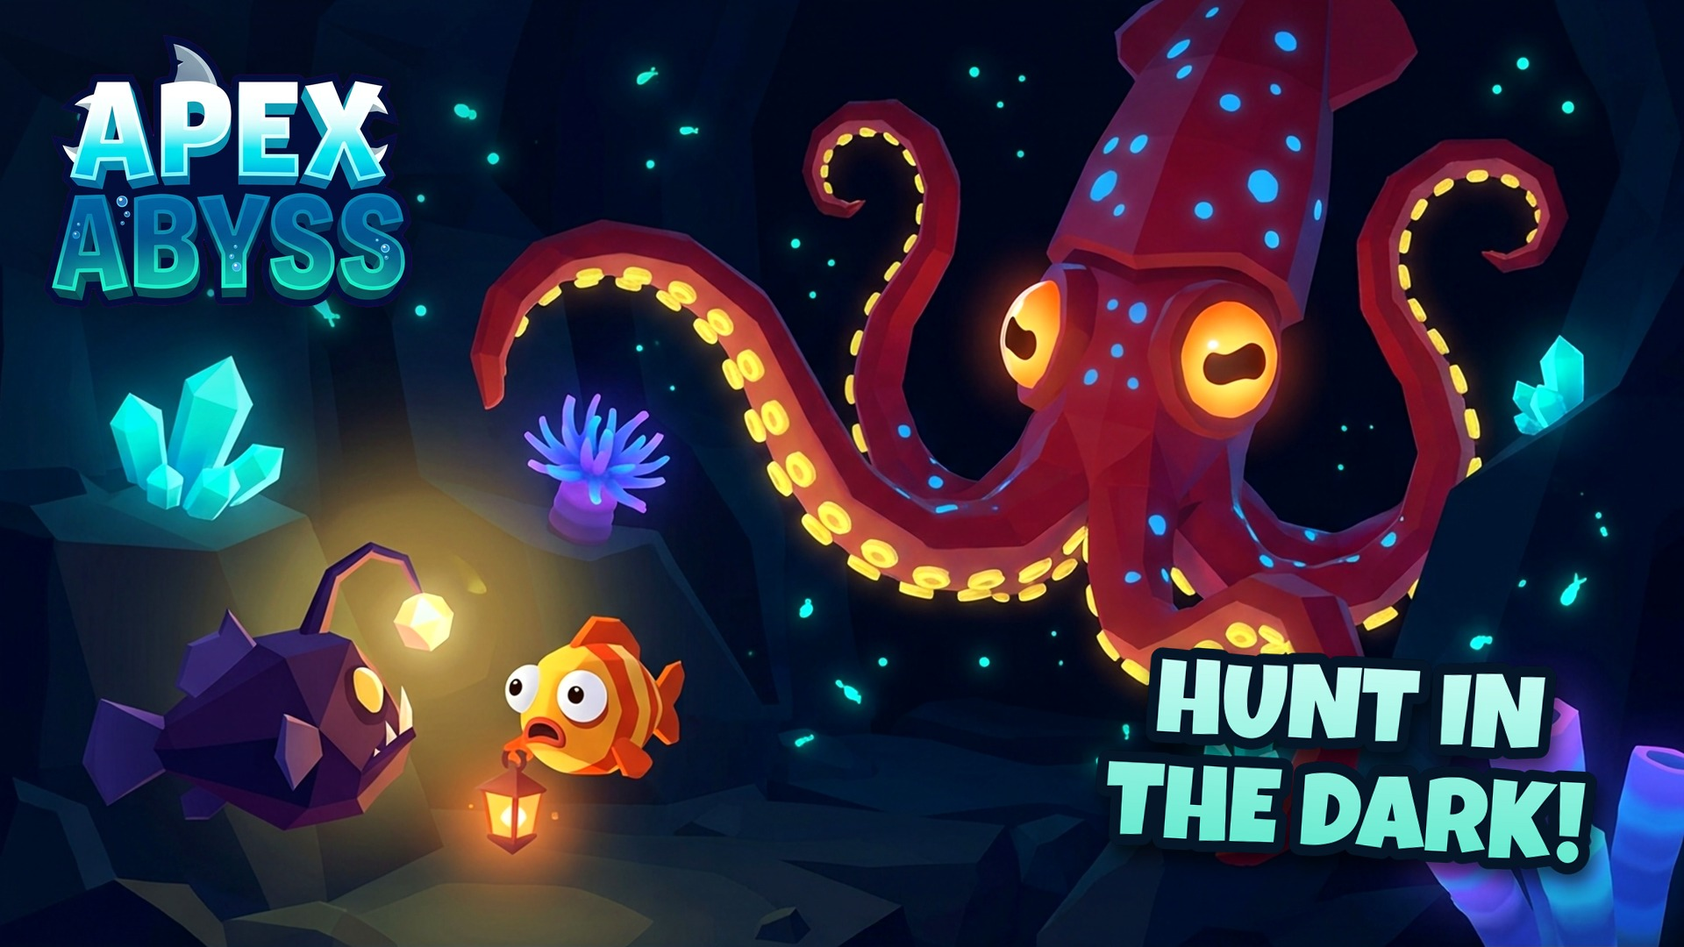
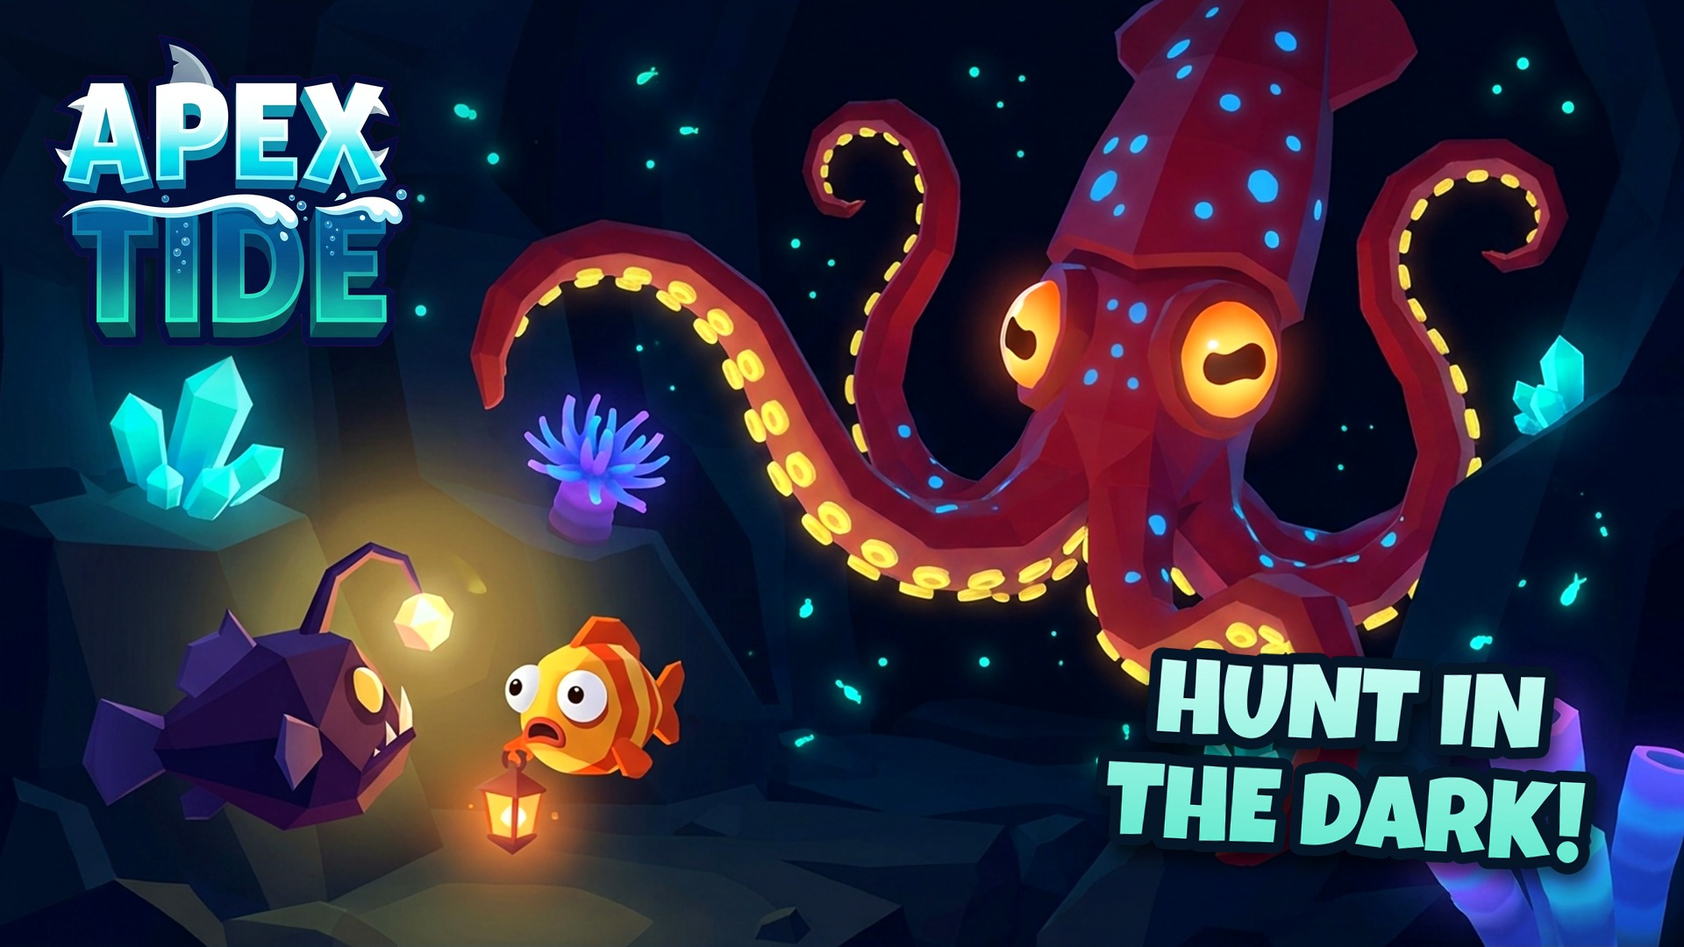
Rename the game to Apex Tide
Connor picked Apex Tide over Apex Abyss: the game is no longer about the
abyss, "Abyss" alone is crowded on Roblox, and the name ties to the Tide
Clock and the Tide Pass. Nothing on Roblox, the web or the trademark
records uses it.

- The logo: an image edit of the old one keeps its APEX line and draws
  TIDE in its style under a foam crest (B, a curling wave, is the
  alternate). compose.py keys it, drops the model's faint noise band and
  rebuilds every thumbnail with it.
- The start screen reads APEX TIDE, and shows the logo instead once
  Config/Textures `logo` holds its id, sized to clear the letterbox on PC
  and phones.
- Start lines, the Rojo project name, tool headers, README, GDD, the store
  page (with a tides line in the description) and CLAUDE.md. The repo, the
  place file and the DataStores keep their names.
- The round-3 brief gets the Roblox side: logo upload, experience name and
  description, and thumbnails (thumb_6 held back; the colour screen flags
  its parchment map).

Claude-Session: https://claude.ai/code/session_01VGK3PReyaj8gMXaiCbKPC3

Changed region(s): [[0.0312, 0.0306, 0.25, 0.3667]]

diff --git a/tools/marketing/compose.py b/tools/marketing/compose.py
@@ -1,4 +1,4 @@
-"""Builds the Roblox store art (icon, logo, thumbnails) for Apex Abyss.
+"""Builds the Roblox store art (icon, logo, thumbnails) for Apex Tide.
 
     python3 tools/marketing/compose.py refs     # the style-reference sheets for the image jobs
     SR_MODEL=<EDSR_x2.pb> python3 tools/marketing/compose.py sr   # upscale the key art (slow, cached)
@@ -22,7 +22,8 @@ Pipeline (owner, 2026-10-09: "generate our page photo and some thumbnails"):
    the files to upload in Creator Hub:
 
        icon_512.png, icon_512_alt.png   the experience icon (512x512) and the runner-up
-       logo.png                         APEX ABYSS on a transparent background
+       logo.png, logo_alt.png           APEX TIDE on a transparent background (A, and B the
+                                        runner-up with a curling wave)
        thumb_N_<name>.jpg               thumbnails (1920x1080)
        thumb_N_<name>.jpg from marketing/raw/shot_*.png, in-game captures (committed)
 
@@ -142,8 +143,26 @@ def key_magenta(im: Image.Image) -> Image.Image:
     # Despill: the logo is white, aqua, blue and navy, so red never rises above green
     # or blue there; at the edges the screen's pink did
     r = ImageChops.darker(r, ImageChops.lighter(g, b))
+    # The image model leaves faint noise in the screen (a blocky band along the top of
+    # the LogoTide images): drop near-clear pixels, then keep the longest run of rows
+    # that hold the logo
+    alpha = alpha.point(lambda v: 0 if v < 40 else v)
     out = Image.merge("RGBA", (r, g, b, alpha))
+    rows = [y for y, n in enumerate(_row_counts(alpha)) if n > 3]
+    runs: list[list[int]] = []
+    for y in rows:
+        if runs and y == runs[-1][1] + 1:
+            runs[-1][1] = y
+        else:
+            runs.append([y, y])
+    top, bottom = max(runs, key=lambda run: run[1] - run[0])
+    out = out.crop((0, top, out.width, bottom + 1))
     return out.crop(out.getbbox())
+
+
+def _row_counts(alpha: Image.Image) -> list[int]:
+    data = alpha.tobytes()
+    return [sum(1 for v in data[y * alpha.width : (y + 1) * alpha.width] if v) for y in range(alpha.height)]
 
 
 def vibrance(im: Image.Image, amount: float = 1.1, contrast: float = 1.04) -> Image.Image:
@@ -256,8 +275,11 @@ def save(c: Image.Image, name: str):
 
 def main():
     OUT.mkdir(exist_ok=True)
-    logo = key_magenta(src("Logo"))
+    # APEX TIDE (2026-10-20, renamed from Apex Abyss): the old logo's APEX line kept by
+    # an image edit, TIDE under a foam crest (A); B curls a wave round TIDE
+    logo = key_magenta(src("LogoTideA"))
     logo.save(OUT / "logo.png")
+    key_magenta(src("LogoTideB")).save(OUT / "logo_alt.png")
 
     # The icon: eat or be eaten, readable at the size of a thumbnail tile. B (the
     # Nibbler chomping at you) is the runner-up

diff --git a/tools/preview/start_render.py b/tools/preview/start_render.py
@@ -320,15 +320,28 @@ def overlay(img, shot, k, seconds):
     bar = int(H * 0.085)
     draw.rectangle((0, 0, W, bar), fill=(0, 0, 0, 240))
     draw.rectangle((0, H - bar, W, H), fill=(0, 0, 0, 240))
-    # Title (top): APEX ABYSS and its line
-    title = font(FONT_HEAVY, 72 * s)
-    tw = draw.textlength("APEX ABYSS", font=title)
-    ty = int(H * 0.2 - 40 * s)
-    draw.text(((W - tw) / 2 + 3 * s, ty + 3 * s), "APEX ABYSS", font=title, fill=(4, 26, 44, 150))
-    draw.text(((W - tw) / 2, ty), "APEX ABYSS", font=title, fill=(232, 250, 255, 255))
+    # Title (top): the APEX TIDE logo (marketing/logo.png, once Config/Textures `logo`
+    # is set) or the lettering, and its line; the group rests at UIScale 0.86
     sub = font(FONT_BOLD, 17 * s)
     line = "EAT   ·   GROW   ·   BECOME THE APEX"
-    draw.text(((W - draw.textlength(line, font=sub)) / 2, ty + 84 * s), line, font=sub, fill=(86, 222, 255, 255))
+    logo_path = os.path.join(HERE, "..", "..", "marketing", "logo.png")
+    if os.path.exists(logo_path):
+        k = 0.86 * s
+        cy = H * 0.32
+        logo = Image.open(logo_path).convert("RGBA")
+        lh = round(200 * k)
+        logo = logo.resize((round(lh * logo.width / logo.height), lh), Image.LANCZOS)
+        bottom = cy + (110 - 85) * k
+        layer.alpha_composite(logo, (int((W - logo.width) / 2), int(bottom - lh)))
+        ty = cy + (128 - 85) * k
+        draw.text(((W - draw.textlength(line, font=sub)) / 2, ty), line, font=sub, fill=(86, 222, 255, 255))
+    else:
+        title = font(FONT_HEAVY, 72 * s)
+        tw = draw.textlength("APEX TIDE", font=title)
+        ty = int(H * 0.2 - 40 * s)
+        draw.text(((W - tw) / 2 + 3 * s, ty + 3 * s), "APEX TIDE", font=title, fill=(4, 26, 44, 150))
+        draw.text(((W - tw) / 2, ty), "APEX TIDE", font=title, fill=(232, 250, 255, 255))
+        draw.text(((W - draw.textlength(line, font=sub)) / 2, ty + 84 * s), line, font=sub, fill=(86, 222, 255, 255))
     # How-to cards above the bottom bar
     card_w, card_h, gap = 236 * s, 64 * s, 12 * s
     left = (W - (3 * card_w + 2 * gap)) / 2

diff --git a/tools/fetch_assets.py b/tools/fetch_assets.py
@@ -38,7 +38,7 @@ for name, bundle in manifest.get("bundles", {}).items():
     if not force and sources.get(name) == url and into.exists():
         continue
     try:
-        request = urllib.request.Request(url, headers={"User-Agent": "apex-abyss-assets"})
+        request = urllib.request.Request(url, headers={"User-Agent": "apex-tide-assets"})
         with urllib.request.urlopen(request, timeout=600) as response:
             data = response.read()
         # A bundle that isn't the one screened is never unpacked (it could be an

diff --git a/tools/shades/screen_shades.py b/tools/shades/screen_shades.py
@@ -1,4 +1,4 @@
-"""Screens Apex Abyss's shade skins for anything a moderation classifier could read
+"""Screens Apex Tide's shade skins for anything a moderation classifier could read
 as human skin, before they go anywhere near Roblox. Ported from Hatch & Snatch's
 tools/mutations/screen_skins.py (the account was suspended once over a pale, pinkish
 atlas, 2026-10-03); the rules and thresholds are unchanged, read that file's notes.

diff --git a/tools/tripo.py b/tools/tripo.py
@@ -119,7 +119,7 @@ def task_body(job: dict) -> dict:
 
 def download(url: str, out: pathlib.Path):
     out.parent.mkdir(parents=True, exist_ok=True)
-    req = urllib.request.Request(url, headers={"User-Agent": "apex-abyss-assets"})
+    req = urllib.request.Request(url, headers={"User-Agent": "apex-tide-assets"})
     with urllib.request.urlopen(req, timeout=300) as response:
         out.write_bytes(response.read())
 

diff --git a/tools/audio/make_sfx.py b/tools/audio/make_sfx.py
@@ -1,6 +1,6 @@
 #!/usr/bin/env python3
 """
-make_sfx.py -- Apex Abyss's sound pack, synthesized (numpy + scipy).
+make_sfx.py -- Apex Tide's sound pack, synthesized (numpy + scipy).
 
 Everything is made here from oscillators and noise (no samples, nothing licensed,
 nothing that can trip moderation) and written back to back into ONE audio file, so

diff --git a/docs/playtests/2026-10-19-pc-3-brief.md b/docs/playtests/2026-10-19-pc-3-brief.md
@@ -1,11 +1,11 @@
-Apex Abyss — PC brief (2026-10-19, round 3): Connor's owner batch, built on `claude/world`. It covers a new Haul pace, the cliff as a reef wall, the Vents field, sea life models and edible crabs, the start screen's rolling shots, and predators with jaws that hunt like predators. **This round you publish and Connor tests** (Connor, 2026-10-19: "Just need other Claude chat to publish everything I will test myself this round"). Do §1, §2 and §5 only; §3 and §4 are Connor's own test list.
+Apex Tide (renamed from Apex Abyss on 2026-10-20) — PC brief (2026-10-19, round 3): Connor's owner batch, built on `claude/world`. It covers a new Haul pace, the cliff as a reef wall, the Vents field, sea life models and edible crabs, the start screen's rolling shots, and predators with jaws that hunt like predators. **This round you publish and Connor tests** (Connor, 2026-10-19: "Just need other Claude chat to publish everything I will test myself this round"). Do §1, §2, §2b and §5 only; §3 and §4 are Connor's own test list.
 
 ## How to run it
 
 - Work in `C:\Users\neos1\Desktop\apex-abyss` on `claude/core-systems`, in **`ApexAbyss.rbxl`**. Rojo runs on port **34873**.
 - Skip the checks in §3 and §4: Connor runs them himself in the published game.
 - Fix only what stops the place from running or publishing (an Output error at start, a failed import): one commit per fix, then Play again.
-- Write a short log to `docs/playtests/2026-10-19-pc-3.md` (Output lines, imports, the map id, the published version), commit it and push `claude/core-systems`.
+- Write a short log to `docs/playtests/2026-10-19-pc-3.md` (Output lines, imports, the map and logo ids, the rename, the published version), commit it and push `claude/core-systems`.
 
 ## What changed (cloud, `claude/world`)
 
@@ -80,6 +80,17 @@ Run `python tools/fetch_assets.py` once first. Screen every colour map with `pyt
 
    It also refreshes `PreyModels.Barracuda` and `PreyModels.ReefShark`. Save the place.
 5. **Map chart:** screen `assets/textures/map_chart.png`, upload it, and paste the new id into `Config/Textures` `mapChart`.
+
+## 2b. The rename: Apex Tide (Connor, 2026-10-20: "Go with Apex Tide")
+
+The code side is done on `claude/world`: the start screen reads APEX TIDE, the start lines print `[ApexTide] …`, and the Rojo project is named ApexTide (the place file stays `ApexAbyss.rbxl`). What's left is in Roblox:
+
+1. **Logo on the start screen:** screen `marketing/logo.png`, upload it as an Image, and paste the id into `Config/Textures` `logo`. Play: the start screen shows the stacked APEX TIDE logo over EAT · GROW · BECOME THE APEX, clear of the top letterbox bar. With the id at 0 it shows the lettering instead.
+2. **Experience name and description** (Game Settings → Basic Info, or Creator Hub → the experience → Configure):
+   - Name: `Apex Tide 🦈 Eat & Grow`
+   - Description: the block under "Description" in `docs/STORE_PAGE.md`, word for word.
+3. **Thumbnails:** replace whatever is on the experience with `marketing/thumb_1_eat.jpg` (first) and 2, 3, 4, 5, 7, 8, 9, 10, in that order. **Don't upload `thumb_6_treasure.jpg`**: the colour screen flags its parchment map. Screen each file first, and upload them one at a time. The icon (`icon_512.png`) has no text and stays as it is.
+4. Note in the log anything Roblox moderated, rejected or held "pending".
 
 ## 3. Checks
 
@@ -255,6 +266,6 @@ Take ×2 Mass off for the pace checks (admin) and note it.
 
 1. Play once more after the imports and the map id. The Output should show no errors, and the turtles, rays, crabs, cliff coral and the Megalodon's jaw should be models, not part-built stand-ins.
 2. Save `ApexAbyss.rbxl`.
-3. **Publish** (Connor authorizes it this round): File → Publish to Roblox into the existing private experience "Apex Abyss" (universe 10769954850, place 83646578075996). If Studio asks, use Publish to Roblox As → the existing experience → that place ("Update existing experience"). Don't change the experience's privacy, title, icon or thumbnails. If your permission check refuses the publish, stop and tell Connor exactly which click to make; don't try a way around it.
-4. Write the log: the Output start lines, the import prints, the new `mapChart` id, any fix with its commit, and the published version number from Creator Hub (or the publish dialog).
+3. **Publish** (Connor authorizes it this round): File → Publish to Roblox into the existing private experience (universe 10769954850, place 83646578075996; named "Apex Abyss" until §2b). If Studio asks, use Publish to Roblox As → the existing experience → that place ("Update existing experience"). Leave its privacy and icon as they are; the name, description and thumbnails change only as §2b says. If your permission check refuses the publish, stop and tell Connor exactly which click to make; don't try a way around it.
+4. Write the log: the Output start lines, the import prints, the new `mapChart` and `logo` ids, the rename steps done, any fix with its commit, and the published version number from Creator Hub (or the publish dialog).
 5. Commit it and push `claude/core-systems`.

diff --git a/docs/STORE_PAGE.md b/docs/STORE_PAGE.md
@@ -1,7 +1,7 @@
 # Store page (Creator Hub)
 
-The experience is "Apex Abyss" (universe 10769954850, place 83646578075996), private until
-Connor makes it public. Everything to upload is in `marketing/` (committed); rebuild it with
+The experience is "Apex Tide 🦈 Eat & Grow" (universe 10769954850, place 83646578075996;
+named "Apex Abyss" until 2026-10-20), private until Connor makes it public. Everything to upload is in `marketing/` (committed); rebuild it with
 `python3 tools/marketing/compose.py` (see the script's header for the whole pipeline).
 
 ## Files
@@ -20,7 +20,12 @@ Connor makes it public. Everything to upload is in `marketing/` (committed); reb
 | `thumb_8_den.jpg` | Thumbnail 8 | In-game: a furnished Grotto, the full Coral Garden. "BUILD YOUR DEN!" |
 | `thumb_9_megalodon.jpg` | Thumbnail 9 | In-game: the Megalodon's jaws. "FIGHT THE MEGALODON!" Provisional: retake it after the open-water rework (it's murky and staged) |
 | `thumb_10_reveal.jpg` | Thumbnail 10 | In-game: the roll reveal landing on Nebula. "ROLL RARE SHADES!" |
-| `logo.png` | Anywhere (transparent) | APEX ABYSS |
+| `logo.png` | Anywhere (transparent); also the start screen's title (`Config/Textures` `logo`) | APEX TIDE, a foam crest between the lines |
+| `logo_alt.png` | Runner-up logo | APEX TIDE with a wave curling round TIDE |
+
+**Hold back `thumb_6_treasure.jpg`:** the colour screen flags its parchment map and sand
+as a 5.6% skin-tone region (over 5.0; the classifier scores it 0.00). The rest pass
+(2026-10-20, `screen_shades.py` on the logos, icon and thumbnails).
 
 Roblox shows up to 10 thumbnails; the lead one matters most. Everything shown is in the game
 (bosses, the Trench, growth stages, the shades named, treasure maps, the seven biomes).
@@ -35,7 +40,10 @@ Roblox shows up to 10 thumbnails; the lead one matters most. Everything shown is
   cropped.
 - All text is set by `compose.py` (Luckiest Guy and Lilita One), never by the model.
 - The logo was painted on magenta and keyed (`key_magenta`): its colours are white, aqua,
-  blue and navy, which a green screen would have eaten into.
+  blue and navy, which a green screen would have eaten into. The APEX TIDE logo
+  (2026-10-20, `tools/tripo_jobs_logo_tide.json`) is an edit of the APEX ABYSS one with
+  that logo as the reference: the APEX line kept, TIDE drawn in its style. The model left
+  a faint blocky band near the top of the screen, which `key_magenta` drops.
 - Lessons: the image API ignores an aspect setting; asking for "a calm corner for the
   title" painted a hard black box into the scene (the first squid), so ask for a letterboxed
   16:9 strip with plain navy above and below instead.
@@ -58,11 +66,12 @@ with the HUD, nametags and Roblox's own UI hidden (no text in the shot; the scri
 
 🐟 EAT & GROW: swim into smaller fish to swallow them, bite fish your size, and dodge anything big enough to swallow YOU.
 🏠 BANK YOUR HAUL: swim home to your den to keep what you ate. Get eaten and it's gone!
+🌊 RIDE THE TIDES: every 20 minutes the tide turns. Golden Hour, Blood Tide, Sardine Run, Bioluminescent Night and the rare Prism Tide.
 🦈 WORLD BOSSES: team up against the Megalodon and the Giant Squid for exclusive trophies and shades.
-🌊 7 BIOMES: Kelp Shallows, Coral Reef, Shipwreck Graveyard, Open Blue, Sunken Ruins, Hydrothermal Vents and the pitch-dark Abyssal Trench. Bring a light!
+🗺 7 BIOMES: Kelp Shallows, Coral Reef, Shipwreck Graveyard, Open Blue, Sunken Ruins, Hydrothermal Vents and the dark Abyssal Trench.
 🐠 6 FISH TO PLAY: Nibbler, 'Cuda, Pufferfish, Moray Eel, Reef Shark and Anglerfish.
-✨ 30+ RARE SHADES: collect shells and roll, from Neon Tetra to Prismatic.
-🗺 TREASURE MAPS: follow the sonar and dig up chests.
-🪸 YOUR DEN: upgrade it, furnish it, show off your trophies, and grow coral while you're away.
-🎁 Daily rewards for every day you play.
+✨ RARE SHADES: collect shells and roll, from Neon Tetra to Prismatic.
+💰 TREASURE MAPS: follow the sonar and dig up chests.
+🪸 YOUR DEN: build it, furnish it, show off your trophies.
+🎁 Daily rewards and a free Tide Pass.
 ```

diff --git a/CLAUDE.md b/CLAUDE.md
@@ -1,4 +1,7 @@
-# APEX ABYSS — Roblox game (read this first)
+# APEX TIDE — Roblox game (read this first)
+
+Formerly **Apex Abyss** (renamed 2026-10-20). The repo (`apex-abyss`), the local folder and
+`ApexAbyss.rbxl` keep the old name; no DataStore name holds the game's name.
 
 A third-person underwater eat-and-grow game. You start as a small fish, eat your way up
 to an apex predator, and bank your growth at your den in a cave hub. PvP is always on,
@@ -27,9 +30,22 @@ guarded loops, state sync). Everything about this game is new.
 
 Every decision below was made with the owner on 2026-10-06. The details are in `docs/GDD.md`.
 
-- **Title:** Apex Abyss. The live title is "Apex Abyss 🦈 Eat & Grow", and the brand is
-  a clean APEX ABYSS. The name was checked unused on Roblox (games and groups) and the
-  web. The owner also liked "Frenzy Depths" as the runner-up.
+- **Title: Apex Tide** (owner, 2026-10-20: "Go with Apex Tide"; it was Apex Abyss from
+  2026-10-06 until the game stopped being about the abyss). The live title is "Apex Tide
+  🦈 Eat & Grow", and the brand is APEX TIDE. Checked 2026-10-19: no Roblox game or
+  group by the name (omni-search and group search), and no web, app or trademark hit.
+  "Abyss" alone is crowded on Roblox (18+ games, among them Deep Spirit Games' ocean game
+  Abyss, ~87M plays), and the direct rivals are Be Fish, Be a Shark, SharkBite, Fish Eat
+  Fish and DEVOUR. The name ties to the Tide Clock and the Tide Pass. Runners-up:
+  Tidebite, Food Chain (Frenzy Depths before). **The logo** (`marketing/logo.png`; B,
+  a curling wave, is `logo_alt.png`) keeps the old logo's APEX line by an image edit
+  (`tools/tripo_jobs_logo_tide.json`, LogoTideA/B; `compose.py` keys it and drops the
+  model's faint noise band); every thumbnail carries it. The start screen shows it once
+  `Config/Textures` `logo` holds its id (StartController, sized for the letterbox), the
+  lettering APEX TIDE until then. **Community or individual** (Connor asked 2026-10-20):
+  Claude recommended a studio community for both games, with this experience moved
+  into it before launch (Creator Hub's free user-to-community transfer keeps the game,
+  place ids and URL); Connor to decide.
 - **Reference:** the trending Fortnite UEFN fish maps "Be a fish" (civistudios) and
   "BE FISH" (ickrisp). We add twists, never copies.
 - **Core loop: Hunt & Haul** (the owner approved the design and disliked its first name,
@@ -1998,7 +2014,7 @@ Every decision below was made with the owner on 2026-10-06. The details are in `
   lit underwater scene in two ViewportFrames (far: hazed floor, kelp, a minnow school
   and the Megalodon's shadow; near: swaying part-built kelp, the Nibbler, 'Cuda and
   Pufferfish swimming past with the SwimWave, a sardine school), light shafts, marine
-  snow, rising bubbles, the APEX ABYSS title with a shine, and three how-to-play cards
+  snow, rising bubbles, the APEX TIDE title with a shine (the logo once uploaded), and three how-to-play cards
   (EAT, BITE with the device's key, BANK). LOADING THE REEF until the fish has spawned
   and the state arrived (at least 2.4 s), then PRESS ANY KEY / BUTTON / TAP TO START
   (the device is read when the screen opens and changes only on real input of another

diff --git a/docs/GDD.md b/docs/GDD.md
@@ -1,6 +1,7 @@
-# Apex Abyss — Game Design Document
+# Apex Tide — Game Design Document
 
-Live title: **Apex Abyss 🦈 Eat & Grow**. The logo and brand say **APEX ABYSS**, and the
+Live title: **Apex Tide 🦈 Eat & Grow** (renamed from Apex Abyss on 2026-10-20). The logo
+and brand say **APEX TIDE**, and the
 "Eat & Grow" tag is there so Roblox search finds it for "shark", "eat" and "grow".
 
 Status: design locked with the owner on 2026-10-06 (brainstorm in the Hatch & Snatch
@@ -15,11 +16,12 @@ players are food too, but small players can school together and take down a big 
 **Reference:** the Fortnite UEFN fish maps trending in 2026: **"Be a fish"** by
 civistudios (8865-1817-4348) and **"BE FISH 🐟 FISH SIMULATOR"** by ickrisp
 (4918-1000-0196). In those you eat to grow, eat other fish, avoid big fish, dodge
-fishing hooks and unlock rare fish. Apex Abyss adds the twists below.
+fishing hooks and unlock rare fish. Apex Tide adds the twists below.
 
-The name was checked on 2026-10-06. No Roblox game or group uses "Apex Abyss" (Roblox
-omni-search and the group lookup), and no game elsewhere does either. The nearest
-neighbours are a Roblox diving game called "Abyss" and Apex Legends.
+The name was checked on 2026-10-19 (Roblox omni-search, the group lookup, the web and
+trademarks): nothing uses "Apex Tide". "Apex Abyss" was free too, but "Abyss" alone is
+crowded on Roblox (18+ games, among them Deep Spirit Games' ocean game Abyss) and the
+game is no longer about the abyss. "Tide" ties to the Tide Clock and the Tide Pass.
 
 ## 2. Pillars
 
@@ -361,7 +363,7 @@ The approved details:
   - Small fish are cute and a little goofy; big ones are powerful and menacing.
   - The owner offered a Schedule I-style cartoony look, and Claude chose it: it stands
     out on Roblox, reads at a glance (size and threat), stays light enough for hundreds
-    of fish on phones, and suits Tripo. It also keeps Apex Abyss looking different
+    of fish on phones, and suits Tripo. It also keeps Apex Tide looking different
     from Hatch & Snatch.
   - The first concepts are in `assets/concepts/`: StyleSheet, ShadeSheet, Vendors and
     HubPlaza. They are waiting for the owner's approval before any 3D conversion.
@@ -1490,7 +1492,7 @@ then it pushes them straight to the den and tutorial. Starter screen should have
 and some fish swimming by with maybe some kelp." It covers the game while it loads: a
 lit underwater scene (swaying kelp, the playable fish and a sardine school swimming
 past, minnows and the Megalodon's shadow far off in hazed water, light shafts, marine
-snow, rising bubbles), the APEX ABYSS title, and three cards on how to play (EAT, BITE,
+snow, rising bubbles), the APEX TIDE title (the logo once uploaded), and three cards on how to play (EAT, BITE,
 BANK). Once the fish is in its den the prompt reads PRESS ANY KEY (PRESS ANY BUTTON on
 a controller, TAP TO START on a phone); any input dives in and the water clears onto
 the fish in its den, where the tutorial step pops (or the Daily panel and WELCOME BACK

diff --git a/README.md b/README.md
@@ -1,4 +1,6 @@
-# Apex Abyss
+# Apex Tide
+
+(Formerly Apex Abyss; the repo keeps that name.)
 
 Roblox underwater eat-and-grow game: start small, eat your way up to apex predator,
 bank your Haul at your den. Design: [`docs/GDD.md`](docs/GDD.md). Project notes and
